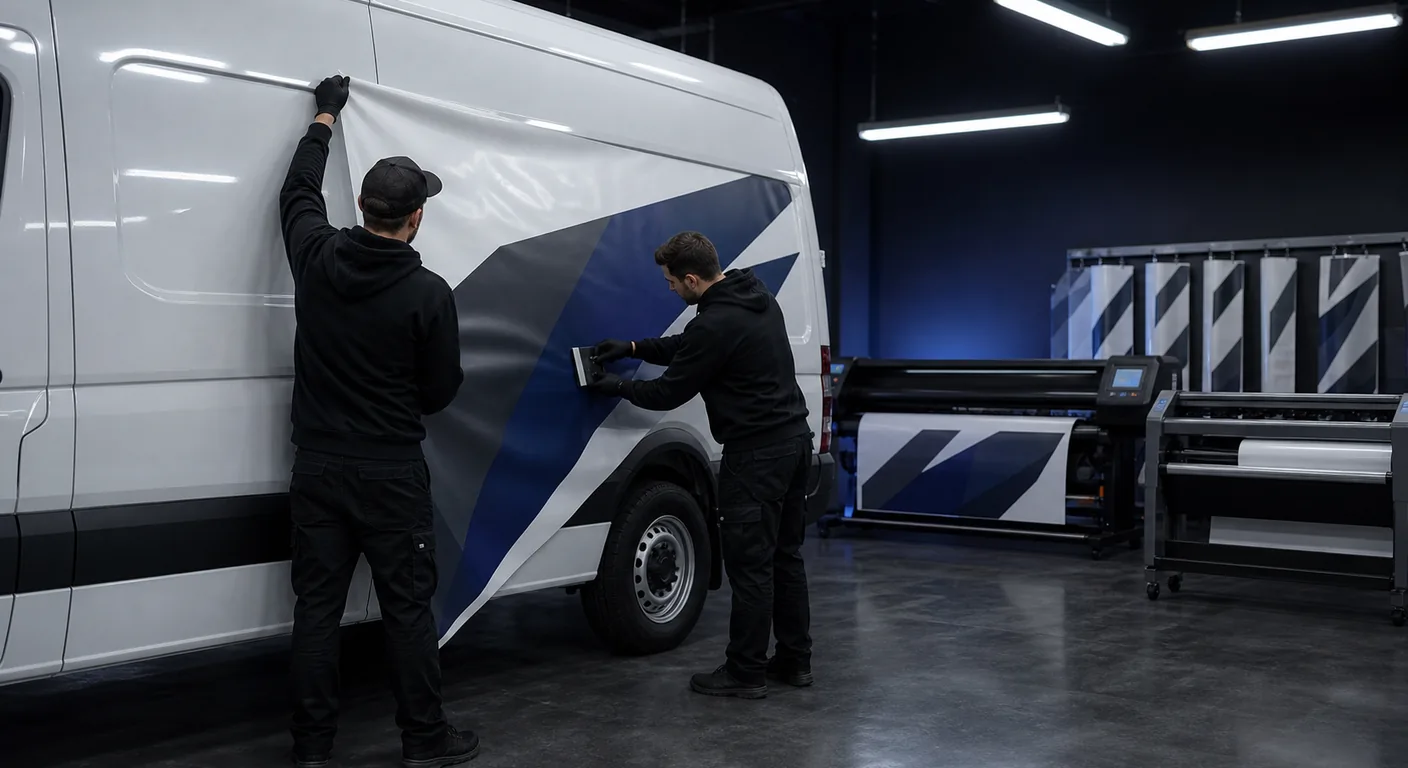
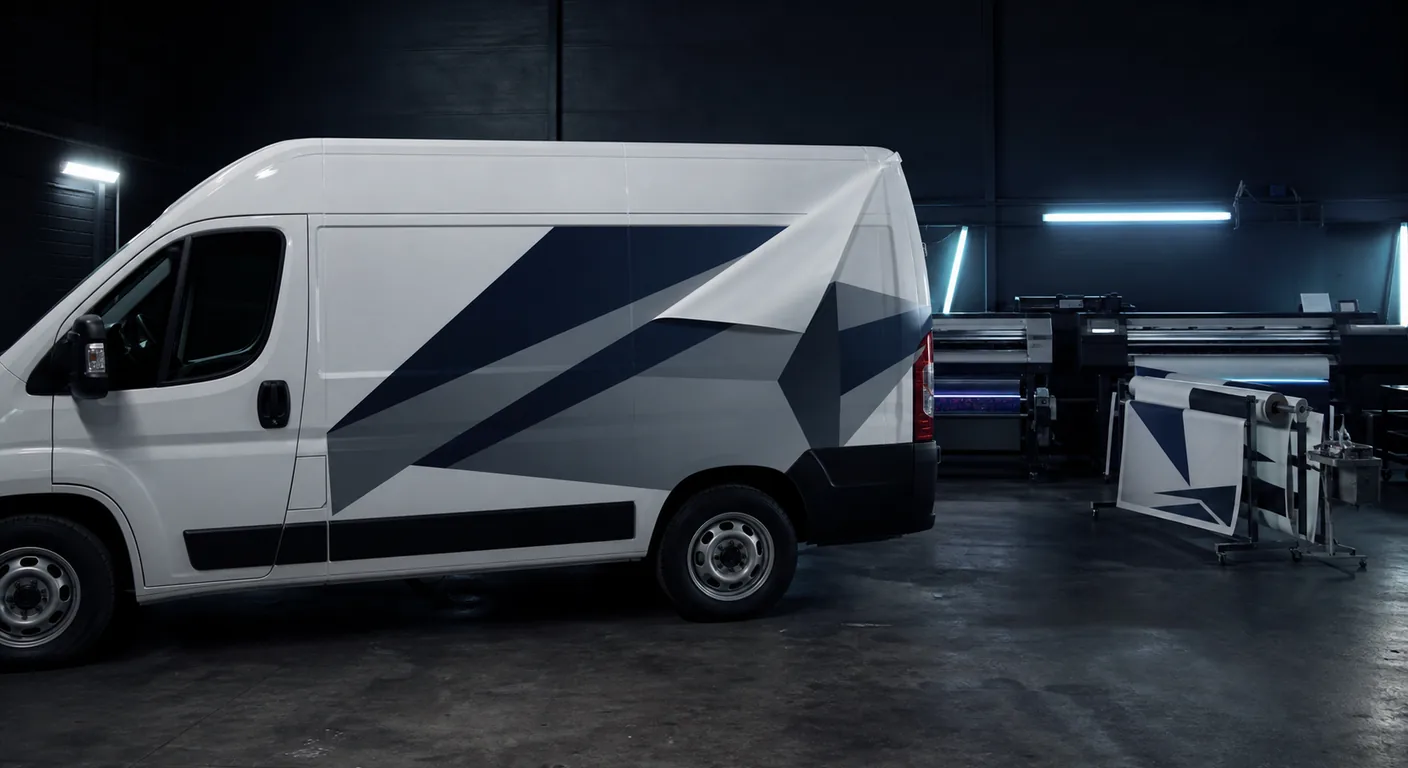
fix: SEO-bez-konfliktow z wtyczkami, statyczny navbar, ciaśniejsze sekcje, kafelek Detailing, CTA kafelków na jednej wysokości, zdjęcia szkoleń bez ludzi
- functions.php: higloss_seo_plugin_active() (stale RANK_MATH_VERSION/WPSEO_VERSION/
  SEOPRESS_VERSION/AIOSEO_VERSION/AIOSEOP_VERSION + fallback is_plugin_active po slugach;
  RANK_MATH_VERSION zweryfikowany w source wtyczki). Gdy wtyczka SEO aktywna, motyw NIE
  wypisuje wlasnych meta (description/OG/canonical) ani schematów LocalBusiness/Article —
  caly <head> przejmuje wtyczka. Bez wtyczki: motyw zostaje zrodl'em + remove_action
  rel_canonical (koniec podwojnego canonical). Article schema: www -> home_url('/').
- landing.css: .hg-header position: fixed -> absolute (navbar statyczny, znika przy
  scrollu, nie zajmuje miejsca); .hg-section padding clamp(5.5rem,9vw,9rem) ->
  clamp(3.75rem,6vw,6rem) (tresc nie zaczyna sie zbyt nisko); kafelki .hg-service-card
  jako flex column + link .hg-text-link z margin-top:auto (CTA na jednej wysokosci).
- front-page.php: kafelek 'Szyby, dechroming i detailing' -> 'Detailing', link #wycena
  -> /detailing/ (jak pozostale kafelki uslug); nowe alty zdjec szkoleniowych.
- Zdjęcia szkoleń na głównej zregenerowane BEZ ludzi: szkolenia_podstawy/_ppf/_branding
  (webp 1408x768 nadpisane); certyfikat i banner bez zmian (bez ludzi / zaakceptowany).
- Podstrony: main padding-top 7.5rem -> 6.5rem (start tresci wyzej przy statycznym nav).

diff --git a/assets/css/landing.css b/assets/css/landing.css
@@ -66,7 +66,9 @@ body.menu-open {
 
 /* Header */
 .hg-header {
-  position: fixed;
+  /* Statyczny naglowek: siedzi na gorze dokumentu i znika przy scrollu,
+     zeby nie zajmowal miejsca podczas przewijania (bylo: position: fixed). */
+  position: absolute;
   inset: 0 0 auto;
   z-index: 1000;
   height: 90px;
@@ -249,7 +251,8 @@ body:not(.home) .hg-header {
 
 .hg-section {
   position: relative;
-  padding: clamp(5.5rem, 9vw, 9rem) 0;
+  /* Ciaśniejszy rytm pionowy — treść sekcji nie zaczyna się zbyt nisko (było: clamp(5.5rem, 9vw, 9rem)). */
+  padding: clamp(3.75rem, 6vw, 6rem) 0;
 }
 
 .hg-kicker,
@@ -777,6 +780,23 @@ body:not(.home) .hg-header {
 
 .hg-service-body {
   padding: clamp(1.65rem, 3vw, 2.7rem);
+}
+
+/* Kafelki (oferta + szkolenia): CTA zawsze przy dolnej krawedzi karty,
+   na jednej wysokosci w calej siatce, niezaleznie od dlugosci opisu. */
+.hg-service-card {
+  display: flex;
+  flex-direction: column;
+}
+
+.hg-service-body {
+  display: flex;
+  flex: 1;
+  flex-direction: column;
+}
+
+.hg-service-body .hg-text-link {
+  margin-top: auto;
 }
 
 .hg-service-body h3 {

diff --git a/functions.php b/functions.php
@@ -98,6 +98,46 @@ remove_action('wp_head', 'rest_output_link_wp_head');
 remove_action('wp_head', 'wp_oembed_add_discovery_links');
 remove_action('template_redirect', 'rest_output_link_header', 11);
 
+// ---------------------------------------------------------------------------
+// Zgodnosc z wtyczkami SEO (Rank Math / Yoast / SEOPress / AIOSEO).
+// Motyw wypisuje wlasne meta (description, OG, canonical) i schematy JSON-LD
+// TYLKO gdy zadna wtyczka SEO nie jest aktywna — inaczej oddaje caly <head>
+// wtyczce, zeby nie dublowac sygnalow dla wyszukiwarek.
+// ---------------------------------------------------------------------------
+function higloss_seo_plugin_active() {
+    static $active = null;
+    if (null !== $active) {
+        return $active;
+    }
+
+    // Stale wersji definiowane w plikach glownych wtyczek
+    // (RANK_MATH_VERSION potwierdzone w rank-math.php, pozostale to standardowe
+    // nazwy uzywane w dokumentacji i snippetach kazdej z wtyczek).
+    $active = defined('RANK_MATH_VERSION')   // seo-by-rank-math
+        || defined('WPSEO_VERSION')          // wordpress-seo (Yoast)
+        || defined('SEOPRESS_VERSION')       // wp-seopress
+        || defined('AIOSEO_VERSION')         // all-in-one-seo-pack (v4)
+        || defined('AIOSEOP_VERSION');       // all-in-one-seo-pack (v3)
+
+    if (! $active) {
+        // Fallback po slugach wtyczek (front-end wymaga dolozenia plugin.php).
+        if (! function_exists('is_plugin_active')) {
+            require_once ABSPATH . 'wp-admin/includes/plugin.php';
+        }
+        $active = is_plugin_active('seo-by-rank-math/rank-math.php')
+            || is_plugin_active('wordpress-seo/wp-seo.php')
+            || is_plugin_active('wp-seopress/seopress.php')
+            || is_plugin_active('all-in-one-seo-pack/aioseo.php');
+    }
+
+    return $active;
+}
+
+// Jeden canonical na strone: motyw sam wypisuje rel=canonical w
+// higloss_render_seo_meta() (priorytet 1), wiec natywny duplikat WP zdejmujemy.
+// Wtyczki SEO zarzadzaja canonical samodzielnie i robia to samo.
+remove_action('wp_head', 'rel_canonical');
+
 add_action('wp_enqueue_scripts', 'higloss_trim_wp_assets', 100);
 function higloss_trim_wp_assets() {
     // Zadne strony nie uzywa embedow (YouTube/WordPress) ani edytora blokow
@@ -286,6 +326,9 @@ add_action('wp_ajax_nopriv_higloss_quote', 'higloss_handle_quote_calculator');
  * Output LocalBusiness & AutomotiveBusiness Schema.org JSON-LD
  */
 function higloss_render_schema_markup() {
+    if (higloss_seo_plugin_active()) {
+        return; // Wtyczka SEO wystawia wlasny schemat organizacji.
+    }
     $schema = array(
         "@context" => "https://schema.org",
         "@type" => "AutoBodyShop",
@@ -344,6 +387,9 @@ add_action('wp_head', 'higloss_render_schema_markup');
  */
 add_action('wp_head', 'higloss_render_seo_meta', 1);
 function higloss_render_seo_meta() {
+    if (higloss_seo_plugin_active()) {
+        return; // <head> przejmuje wtyczka SEO — nie dublujemy meta.
+    }
     $default_desc = 'HI-GLOSS DESIGN — studio zmiany koloru auta folią i folii PPF. Demontaż wg procedur fabrycznych, folie premium. Szczecin / Mierzyn. Bezpłatna wycena.';
 
     // Opisy pilnowane do max ~160 znakow (Bing WMT: "opis za dlugi").
@@ -634,6 +680,9 @@ function higloss_legacy_ofirmie_redirects() {
  */
 add_action('wp_head', 'higloss_render_article_schema');
 function higloss_render_article_schema() {
+    if (higloss_seo_plugin_active()) {
+        return; // Wtyczka SEO wystawia wlasny schemat Article.
+    }
     if (!is_singular('post')) {
         return;
     }
@@ -653,7 +702,7 @@ function higloss_render_article_schema() {
         'author'      => array(
             '@type' => 'Organization',
             'name'  => 'HI-GLOSS DESIGN',
-            'url'   => 'https://www.hi-glossdesign.pl',
+            'url'   => home_url('/'),
             'logo'  => array('@type' => 'ImageObject', 'url' => HIGLOSS_THEME_URI . '/assets/images/logo.webp'),
         ),
         'publisher'   => array(

diff --git a/front-page.php b/front-page.php
@@ -139,14 +139,14 @@ $instagram_url = 'https://www.instagram.com/higlossdesign/';
                         <p>Finishing touch</p>
                     </div>
                     <div class="hg-service-body">
-                        <h3>Szyby, dechroming i detailing</h3>
+                        <h3>Detailing</h3>
                         <p>Przyciemnianie szyb atestowanymi foliami, sportowy Shadow Line, oklejanie elementów wnętrza oraz przygotowanie lakieru do aplikacji. Detale, które domykają cały projekt.</p>
                         <ul>
                             <li><span>Ochrona UV</span><strong>Do 99%</strong></li>
                             <li><span>Dechroming</span><strong>Połysk / satyna</strong></li>
                             <li><span>Typowy czas usługi</span><strong>1 dzień</strong></li>
                         </ul>
-                        <a href="#wycena" class="hg-text-link">Zaplanuj zakres prac <svg class="hg-ui-icon hg-ui-icon--arrow-ne" viewBox="0 0 24 24" aria-hidden="true"><path d="M7 17 17 7M9 7h8v8"/></svg></a>
+                        <a href="<?php echo esc_url(home_url('/detailing')); ?>" class="hg-text-link">Poznaj detailing <svg class="hg-ui-icon hg-ui-icon--arrow-ne" viewBox="0 0 24 24" aria-hidden="true"><path d="M7 17 17 7M9 7h8v8"/></svg></a>
                     </div>
                 </article>
             </div>
@@ -329,7 +329,7 @@ $instagram_url = 'https://www.instagram.com/higlossdesign/';
             <div class="hg-service-grid">
                 <article class="hg-service-card hg-reveal">
                     <div class="hg-service-image">
-                        <img src="<?php echo esc_url($theme_uri . '/assets/images/szkolenia_podstawy.webp'); ?>" alt="Szkolenie z podstaw car wrappingu — kursant dociska folię rakelką na krawędzi drzwi" width="1408" height="768" loading="lazy">
+                        <img src="<?php echo esc_url($theme_uri . '/assets/images/szkolenia_podstawy.webp'); ?>" alt="Szkolenie z podstaw car wrappingu — drzwi auta oklejone matową folią, rakelka i opalarka na panelu" width="1408" height="768" loading="lazy">
                         <span>01</span>
                         <p>Podstawy</p>
                     </div>
@@ -346,7 +346,7 @@ $instagram_url = 'https://www.instagram.com/higlossdesign/';
 
                 <article class="hg-service-card hg-reveal">
                     <div class="hg-service-image">
-                        <img src="<?php echo esc_url($theme_uri . '/assets/images/szkolenia_ppf.webp'); ?>" alt="Szkolenie z folii ochronnych PPF — naciąganie bezbarwnej folii na błotnik auta" width="1408" height="768" loading="lazy">
+                        <img src="<?php echo esc_url($theme_uri . '/assets/images/szkolenia_ppf.webp'); ?>" alt="Szkolenie z folii ochronnych PPF — bezbarwna folia rozłożona na masce auta, spryskiwacz i rakelka obok" width="1408" height="768" loading="lazy">
                         <span>02</span>
                         <p>Ochrona</p>
                     </div>
@@ -363,7 +363,7 @@ $instagram_url = 'https://www.instagram.com/higlossdesign/';
 
                 <article class="hg-service-card hg-reveal">
                     <div class="hg-service-image">
-                        <img src="<?php echo esc_url($theme_uri . '/assets/images/szkolenia_branding.webp'); ?>" alt="Szkolenie z brandingu flot — aplikacja wielkoformatowej grafiki na auto dostawcze" width="1408" height="768" loading="lazy">
+                        <img src="<?php echo esc_url($theme_uri . '/assets/images/szkolenia_branding.webp'); ?>" alt="Szkolenie z brandingu flot — bus z częściowo zaaplikowaną grafiką, w tle ploter tnący i drukarka" width="1408" height="768" loading="lazy">
                         <span>03</span>
                         <p>Branding</p>
                     </div>

diff --git a/page-detailing.php b/page-detailing.php
@@ -8,7 +8,7 @@
 get_header();
 ?>
 
-<main style="padding: 7.5rem 0 4rem; flex: 1;">
+<main style="padding: 6.5rem 0 4rem; flex: 1;">
     <div class="hg-container">
         
         <!-- COMPACT HERO PHOTO BANNER WITH TITLE ON PHOTO -->

diff --git a/page-ppf.php b/page-ppf.php
@@ -8,7 +8,7 @@
 get_header();
 ?>
 
-<main style="padding: 7.5rem 0 4rem; flex: 1;">
+<main style="padding: 6.5rem 0 4rem; flex: 1;">
     <div class="hg-container">
         
         <!-- COMPACT HERO PHOTO BANNER WITH TITLE ON PHOTO -->

diff --git a/page-reklama.php b/page-reklama.php
@@ -8,7 +8,7 @@
 get_header();
 ?>
 
-<main style="padding: 7.5rem 0 4rem; flex: 1;">
+<main style="padding: 6.5rem 0 4rem; flex: 1;">
     <div class="hg-container">
         
         <!-- COMPACT HERO PHOTO BANNER WITH TITLE ON PHOTO -->

diff --git a/page-zmiana-koloru.php b/page-zmiana-koloru.php
@@ -8,7 +8,7 @@
 get_header();
 ?>
 
-<main style="padding: 7.5rem 0 4rem; flex: 1;">
+<main style="padding: 6.5rem 0 4rem; flex: 1;">
     <div class="hg-container">
         
         <!-- COMPACT HERO PHOTO BANNER WITH TITLE ON PHOTO -->

diff --git a/single-realizacje.php b/single-realizacje.php
@@ -8,7 +8,7 @@
 get_header();
 ?>
 
-<main style="padding: 7.5rem 0 5rem; flex: 1;">
+<main style="padding: 6.5rem 0 5rem; flex: 1;">
     <div class="hg-container">
         
         <?php while (have_posts()) : the_post(); 

diff --git a/page-szkolenia.php b/page-szkolenia.php
@@ -11,7 +11,7 @@
 get_header();
 ?>
 
-<main style="padding: 7.5rem 0 0; flex: 1;">
+<main style="padding: 6.5rem 0 0; flex: 1;">
     <div class="hg-container">
 
         <!-- COMPACT HERO PHOTO BANNER WITH TITLE ON PHOTO

diff --git a/single.php b/single.php
@@ -8,7 +8,7 @@
 get_header();
 ?>
 
-<main style="padding: 7.5rem 0 5rem; flex: 1;">
+<main style="padding: 6.5rem 0 5rem; flex: 1;">
     <div class="hg-container">
 
         <?php while (have_posts()) : the_post();

diff --git a/archive.php b/archive.php
@@ -8,7 +8,7 @@
 get_header();
 ?>
 
-<main style="padding: 7.5rem 0 5rem; flex: 1;">
+<main style="padding: 6.5rem 0 5rem; flex: 1;">
     <div class="hg-container">
 
         <!-- COMPACT HERO BANNER -->

diff --git a/search.php b/search.php
@@ -8,7 +8,7 @@
 get_header();
 ?>
 
-<main style="padding: 7.5rem 0 5rem; flex: 1;">
+<main style="padding: 6.5rem 0 5rem; flex: 1;">
     <div class="hg-container">
 
         <!-- COMPACT HERO BANNER -->
